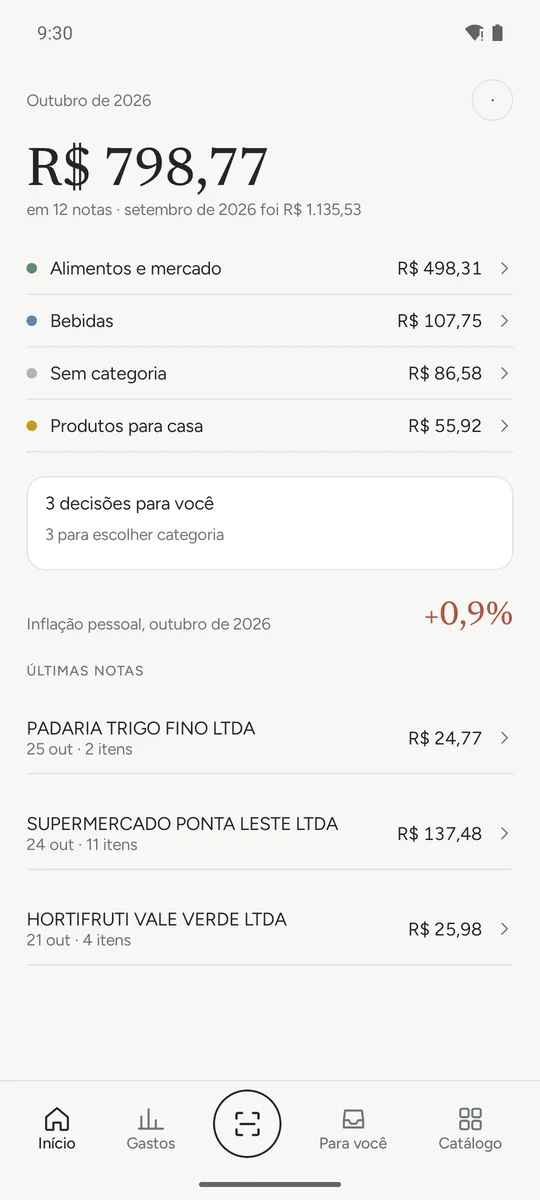
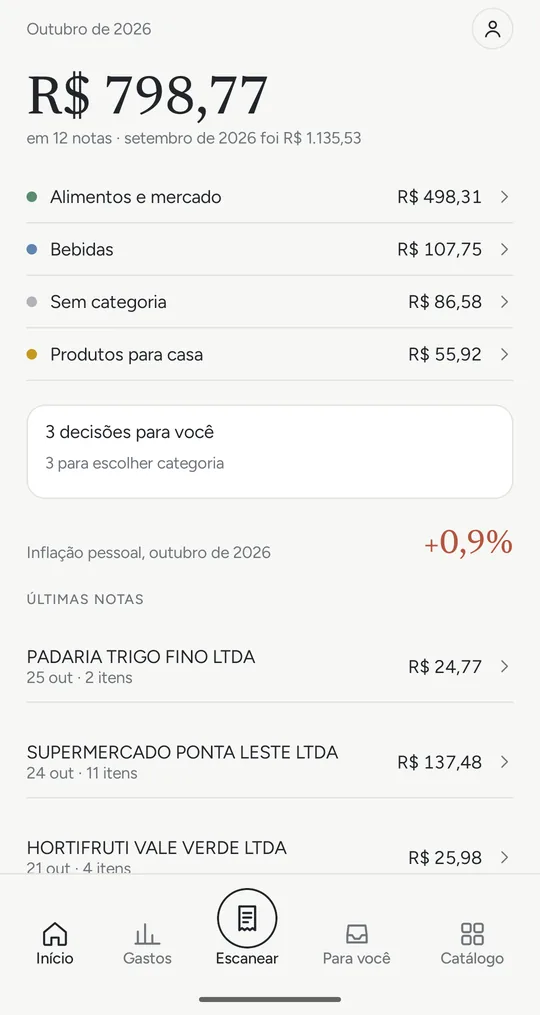
Site: a fuller landing page with the closed test, and the current screenshots (D151)
The landing page gets the Play screenshots (status bar cropped), how it works in three
steps, six features, a closed-test section asking testers to e-mail the contact address,
questions and the privacy points. The app's icon is the favicon. Not deployed.

Claude-Session: https://claude.ai/code/session_01XWeU7n7xUy7T9RcVE3sJBD

diff --git a/web/index.html b/web/index.html
@@ -5,53 +5,158 @@
   <meta name="viewport" content="width=device-width, initial-scale=1">
   <meta http-equiv="Content-Security-Policy" content="default-src 'none'; img-src 'self'; style-src 'self'; base-uri 'none'; form-action 'none'">
   <title>%APP% · notas fiscais, gastos e inflação pessoal</title>
-  <meta name="description" content="Um app Android que lê o QR Code da NFC-e e transforma cada item em histórico: quanto você gasta, em quê, onde, e quanto os preços que você paga subiram.">
+  <meta name="description" content="Um app Android que lê o QR Code da nota fiscal (NFC-e) e transforma cada item em histórico: quanto você gasta, em quê, onde, e quanto os preços que você paga subiram.">
+  <meta name="theme-color" content="#F6F5F1" media="(prefers-color-scheme: light)">
+  <meta name="theme-color" content="#141716" media="(prefers-color-scheme: dark)">
+  <meta property="og:type" content="website">
+  <meta property="og:locale" content="pt_BR">
+  <meta property="og:title" content="%APP%: da nota fiscal ao preço de cada coisa que você compra">
+  <meta property="og:description" content="Escaneie a nota fiscal e acompanhe seus gastos, seus preços e sua inflação. App Android, em teste em Santa Catarina.">
+  <meta property="og:url" content="https://caderneta.roqlab.com.br/">
+  <link rel="icon" href="/assets/icon.svg" type="image/svg+xml">
   <link rel="stylesheet" href="/assets/site.css">
 </head>
 <body>
 <main class="wide">
   <header class="top">
-    <a class="brand" href="/">%APP%</a>
-    <nav><a href="/privacidade/">Privacidade</a><a href="https://roqlab.com.br">roqlab</a></nav>
+    <a class="brand" href="/"><img src="/assets/icon.svg" width="28" height="28" alt="">%APP%</a>
+    <nav><a href="#como-funciona">Como funciona</a><a href="#teste">Teste</a><a href="/privacidade/">Privacidade</a></nav>
   </header>
 
   <section class="hero">
-    <p class="eyebrow">Em desenvolvimento · Santa Catarina</p>
+    <p class="eyebrow">App Android · Santa Catarina</p>
     <h1>Da nota fiscal no papel ao preço de cada coisa que você compra.</h1>
-    <p class="lead">Um app Android que lê o QR Code da NFC-e, busca a nota na SEFAZ e transforma cada item em
-      histórico: quanto você gasta, em quê, onde, e quanto os preços que você paga subiram. Para uma pessoa ou para
-      a casa toda.</p>
-    <span class="badge">Em breve no Google Play</span>
+    <p class="lead">Aponte a câmera para o QR Code da nota fiscal e o %APP% guarda a nota inteira: cada item, o preço,
+      a loja e os descontos. Com o tempo, você vê para onde vai o dinheiro e quanto subiram os preços do que você
+      compra. Para uma pessoa ou para a casa toda.</p>
+    <p class="actions"><a class="button" href="#teste">Quero testar</a><a class="button quiet" href="#como-funciona">Como funciona</a></p>
+    <p class="small">Teste fechado no Google Play começando agora. Ainda não está na loja aberta.</p>
   </section>
 
-  <div class="shots">
-    <figure>
+  <div class="shots" role="list" aria-label="Telas do app">
+    <figure role="listitem">
       <picture><source srcset="/assets/inicio-dark.webp" media="(prefers-color-scheme: dark)">
-        <img src="/assets/inicio-light.webp" width="540" height="1200" alt="Tela inicial com os gastos de outubro por categoria e a inflação pessoal do mês."></picture>
+        <img src="/assets/inicio-light.webp" width="540" height="1015" alt="Tela inicial com os gastos de outubro por categoria, as decisões pendentes, a inflação pessoal do mês e as últimas notas."></picture>
       <figcaption>O mês, por categoria.</figcaption>
     </figure>
-    <figure>
-      <picture><source srcset="/assets/ipci-dark.webp" media="(prefers-color-scheme: dark)">
-        <img src="/assets/ipci-light.webp" width="540" height="1200" alt="Inflação pessoal com o gráfico do índice e a variação de cada mês." loading="lazy"></picture>
+    <figure role="listitem">
+      <img src="/assets/produto-light.webp" width="540" height="1015" alt="Histórico de preço do Café Montanha 500 g, com uma linha por loja e cada compra com data, loja e preço." loading="lazy">
+      <figcaption>O preço de cada produto, loja a loja.</figcaption>
+    </figure>
+    <figure role="listitem">
+      <img src="/assets/ipci-light.webp" width="540" height="1015" alt="Inflação pessoal de outubro, com o gráfico do índice e a variação de cada mês." loading="lazy">
       <figcaption>Sua inflação, não a média.</figcaption>
     </figure>
-    <figure>
-      <picture><source srcset="/assets/produto-dark.webp" media="(prefers-color-scheme: dark)">
-        <img src="/assets/produto-light.webp" width="540" height="1200" alt="Histórico de preço de um café por quilo, com uma linha por loja." loading="lazy"></picture>
-      <figcaption>O preço de cada produto, loja a loja.</figcaption>
+    <figure role="listitem">
+      <img src="/assets/gastos-light.webp" width="540" height="1015" alt="Gastos de outubro com barras de maio a outubro e as categorias do mês com sua parte no total." loading="lazy">
+      <figcaption>Mês a mês, por categoria ou por loja.</figcaption>
+    </figure>
+    <figure role="listitem">
+      <img src="/assets/nota-light.webp" width="540" height="1015" alt="Uma nota fiscal lida pelo app, com cada item, quantidade e preço." loading="lazy">
+      <figcaption>A nota inteira, item a item.</figcaption>
     </figure>
   </div>
   <p class="small">Interface real, dados fictícios.</p>
 
-  <section class="features">
-    <div><span class="index">01</span><h3>A captura se planeja sozinha</h3>
-      <p>Enquanto a câmera passa pela nota, o app lê as linhas impressas e guarda só as fotos que acrescentam algo.</p></div>
-    <div><span class="index">02</span><h3>Funciona sem servidor</h3>
-      <p>A página da SEFAZ é lida no próprio celular, e as fotos ficam nele. Com uma conta, a caderneta sincroniza e
-        pode ser dividida com a família.</p></div>
-    <div><span class="index">03</span><h3>Inflação pessoal honesta</h3>
-      <p>Cada produto é comparado com o próprio preço anterior. Trocar de marca muda o gasto, não a inflação; mês com
-        poucos dados não tem leitura.</p></div>
+  <section class="block" id="como-funciona">
+    <p class="eyebrow">Como funciona</p>
+    <h2 class="title">Três passos, e o resto o app faz.</h2>
+    <ol class="steps">
+      <li><span class="index">01</span><h3>Escaneie a nota</h3>
+        <p>Aponte a câmera para o QR Code e passe pela nota. O app lê as linhas impressas e guarda só as fotos que
+          acrescentam algo.</p></li>
+      <li><span class="index">02</span><h3>Busque na SEFAZ</h3>
+        <p>O app abre a página pública de consulta da nota, a mesma do navegador, e a lê no próprio celular. Se a
+          página pedir uma verificação, é só tocar em Validar.</p></li>
+      <li><span class="index">03</span><h3>Acompanhe</h3>
+        <p>Cada item vira histórico: gastos por categoria, produto e loja, o preço de cada coisa ao longo do tempo
+          e a sua inflação pessoal.</p></li>
+    </ol>
+  </section>
+
+  <p class="eyebrow features-head">O que ele faz</p>
+  <section class="features" aria-label="O que ele faz">
+    <div><h3>Pelo código de barras</h3>
+      <p>No mercado, aponte a câmera para um produto e veja quanto você já pagou por ele e em que loja.</p></div>
+    <div><h3>Inflação pessoal honesta</h3>
+      <p>Cada produto é comparado com o próprio preço anterior, por quilo ou litro quando o tamanho muda. Trocar de
+        marca muda o gasto, não a inflação; mês com poucos dados não tem leitura.</p></div>
+    <div><h3>Descontos de verdade</h3>
+      <p>Os descontos de cada item são lidos da foto da nota, então o preço guardado é o que você pagou.</p></div>
+    <div><h3>Categorias sozinhas</h3>
+      <p>Com uma conta, os itens novos ganham categoria automaticamente. Quando o app não tem certeza, ele pergunta
+        em Para você, e você confirma ou corrige.</p></div>
+    <div><h3>Uma caderneta para a casa</h3>
+      <p>Divida uma caderneta com quem mora com você: cada um escaneia as suas notas e todos veem tudo, com o nome de
+        quem escaneou.</p></div>
+    <div><h3>Funciona sem conta</h3>
+      <p>Sem conta, tudo fica no seu celular. Há uma cópia de segurança em um arquivo, e um exemplo com notas
+        inventadas para conhecer o app antes da primeira nota.</p></div>
+  </section>
+
+  <section class="block test" id="teste">
+    <p class="eyebrow">Teste fechado</p>
+    <h2 class="title">Ajude a abrir o %APP% para todo mundo.</h2>
+    <p>O Google só libera um app novo na loja depois de um teste fechado: pelo menos 12 pessoas com o app instalado
+      durante 14 dias seguidos. Se você mora em Santa Catarina e tem um celular Android, sua ajuda conta muito.</p>
+    <div class="test-grid">
+      <div class="card">
+        <h3>Para participar</h3>
+        <ol>
+          <li>Mande um e-mail para <a href="mailto:%CONTACT%?subject=Quero%20testar%20o%20%APP%">%CONTACT%</a> com o
+            endereço da sua Conta Google (o do Google Play).</li>
+          <li>Você recebe um convite para aceitar e o link para instalar pelo Google Play.</li>
+          <li>Mantenha o app instalado por 14 dias e escaneie as notas que puder.</li>
+        </ol>
+        <p><a class="button" href="mailto:%CONTACT%?subject=Quero%20testar%20o%20%APP%">Quero testar</a></p>
+      </div>
+      <div>
+        <h3>O que você precisa</h3>
+        <ul>
+          <li>Um celular Android.</li>
+          <li>Notas fiscais de consumidor (NFC-e) de Santa Catarina: as com QR Code, dos mercados, padarias e
+            farmácias.</li>
+          <li>Sem notas de SC, dá para ajudar mesmo assim: o exemplo com notas inventadas mostra o app inteiro.</li>
+        </ul>
+        <p class="small">Seu e-mail só é usado para a lista de testadores. Comentários e problemas: Ajustes › Enviar
+          comentário, no próprio app.</p>
+      </div>
+    </div>
+  </section>
+
+  <section class="block faq">
+    <p class="eyebrow">Perguntas</p>
+    <details>
+      <summary>Por que só Santa Catarina?</summary>
+      <p>O app lê a página de consulta da nota de cada estado, e cada portal é diferente. Por enquanto só o de SC é
+        lido. A nota impressa segue um padrão nacional, e ler a nota direto das fotos é o caminho para outros
+        estados, ainda em desenvolvimento.</p>
+    </details>
+    <details>
+      <summary>Preciso criar uma conta?</summary>
+      <p>Não. Sem conta, tudo funciona no celular, menos a categoria automática dos itens novos. A conta serve para
+        guardar as notas online, usar mais de um celular e dividir uma caderneta com outras pessoas.</p>
+    </details>
+    <details>
+      <summary>Por que às vezes uma nota fica esperando?</summary>
+      <p>O portal da SEFAZ limita quantas notas uma mesma rede pode consultar por hora. O app espaça as consultas e
+        avisa antes de passar do limite; a nota fica salva e pode ser buscada depois. Ele também lembra de buscar as
+        que ficaram para trás.</p>
+    </details>
+    <details>
+      <summary>As fotos das notas vão para algum servidor?</summary>
+      <p>Não. As fotos ficam no seu celular. Só se você permitir, o app envia cópias das notas que ele não conseguiu
+        ler, com os dados do cartão, o CPF e o operador apagados, para melhorar a leitura.</p>
+    </details>
+    <details>
+      <summary>O app é da SEFAZ?</summary>
+      <p>Não. O %APP% não é da SEFAZ nem de nenhum órgão do governo. Ele abre a página pública de consulta da nota,
+        a mesma que você abriria pelo navegador.</p>
+    </details>
+    <details>
+      <summary>Quanto custa?</summary>
+      <p>Nada durante o teste. Não há anúncios, e nenhum dado é vendido.</p>
+    </details>
   </section>
 
   <section class="block">
@@ -59,13 +164,14 @@
     <ul>
       <li>Sem conta, tudo fica só no seu celular.</li>
       <li>O CPF e o nome do comprador são removidos das notas antes de serem guardadas.</li>
+      <li>Você pode apagar sua conta e seus dados quando quiser, no app ou nesta página.</li>
       <li>Sem anúncios. Nenhum dado é vendido.</li>
     </ul>
     <p><a href="/privacidade/">Política de privacidade</a> · <a href="/apagar-conta/">Apagar sua conta</a></p>
   </section>
 
   <footer>
-    <span>%APP% é um projeto do <a href="https://roqlab.com.br">roqlab</a>. Só lê notas de Santa Catarina por enquanto.</span>
+    <span>%APP% é um projeto do <a href="https://roqlab.com.br/#caderneta">roqlab</a>. Só lê notas de Santa Catarina por enquanto.</span>
     <a href="mailto:%CONTACT%">%CONTACT%</a>
   </footer>
 </main>

diff --git a/web/assets/site.css b/web/assets/site.css
@@ -39,7 +39,8 @@ button:disabled { opacity: .45; cursor: not-allowed; }
 
 /* Site pages (D105): the landing page and the privacy policy. */
 .top { display: flex; justify-content: space-between; align-items: baseline; gap: 1rem; margin-bottom: 2.5rem; }
-.brand { font-family: Georgia, "Times New Roman", serif; font-size: 1.3rem; color: var(--ink); text-decoration: none; }
+.brand { font-family: Georgia, "Times New Roman", serif; font-size: 1.3rem; color: var(--ink); text-decoration: none; display: inline-flex; align-items: center; gap: .55rem; }
+.brand img { border-radius: 8px; }
 .top nav a { color: var(--muted); text-decoration: none; margin-left: 1rem; font-size: .95rem; }
 .top nav a:hover { color: var(--accent); }
 main.wide { max-width: 64rem; }
@@ -47,7 +48,7 @@ main.wide { max-width: 64rem; }
 .hero h1 { font-size: clamp(2rem, 5vw, 3rem); }
 .lead { font-size: 1.15rem; color: var(--muted); }
 .badge { display: inline-block; margin-top: .6rem; padding: .45rem .9rem; border: 1px solid var(--line); border-radius: 999px; font-size: .9rem; color: var(--muted); }
-.shots { display: grid; grid-template-columns: repeat(3, minmax(0, 1fr)); gap: 1rem; margin: 2.5rem 0; }
+.shots { display: grid; grid-template-columns: repeat(5, minmax(0, 1fr)); gap: 1rem; margin: 2.5rem 0 .5rem; }
 .shots figure { margin: 0; }
 .shots img { width: 100%; height: auto; display: block; border-radius: 22px; border: 1px solid var(--line); background: var(--surface); }
 .shots figcaption { font-size: .85rem; color: var(--muted); margin-top: .5rem; }
@@ -63,8 +64,36 @@ footer a { color: var(--muted); }
 .policy h2 { margin-top: 2rem; }
 .policy h3 { margin-top: 1.4rem; font-size: 1rem; }
 .policy li { margin: .3rem 0; }
-@media (max-width: 720px) {
-  .shots { grid-template-columns: repeat(3, 70%); overflow-x: auto; scroll-snap-type: x mandatory; padding-bottom: .5rem; }
+/* Landing page sections (D151). */
+.actions { display: flex; flex-wrap: wrap; gap: .6rem; margin: 1.4rem 0 .4rem; }
+a.button { display: inline-block; padding: .65rem 1.3rem; border-radius: 999px; border: 1px solid var(--ink); background: var(--ink); color: var(--bg); text-decoration: none; }
+a.button.quiet { background: transparent; color: var(--ink); border-color: var(--line); }
+a.button:hover { opacity: .88; }
+a:focus-visible { outline: 2px solid var(--accent); outline-offset: 2px; border-radius: 4px; }
+h2.title { font-family: Georgia, "Times New Roman", serif; font-weight: 500; font-size: clamp(1.5rem, 3.5vw, 2rem); line-height: 1.2; margin: .3rem 0 1rem; }
+section.block .eyebrow { margin-top: 0; }
+.steps { list-style: none; padding: 0 !important; margin: 1.5rem 0 0; display: grid; grid-template-columns: repeat(3, minmax(0, 1fr)); gap: 1.5rem; }
+.steps h3, .test h3 { font-size: 1rem; margin: .3rem 0 .4rem; }
+.steps p { margin: 0; color: var(--muted); font-size: .95rem; }
+.features { row-gap: 2rem; margin-top: 1rem; }
+.features-head { margin-top: 3rem !important; }
+.test-grid { display: grid; grid-template-columns: minmax(0, 1.1fr) minmax(0, 1fr); gap: 2rem; align-items: start; margin-top: 1rem; }
+.test-grid .card { margin: 0; }
+.test-grid ol, .test-grid ul { padding-left: 1.2rem; }
+.test-grid li { margin: .45rem 0; }
+.faq details { border-bottom: 1px solid var(--line); padding: .85rem 0; max-width: 46rem; }
+.faq summary { cursor: pointer; font-weight: 600; }
+.faq summary:focus-visible { outline: 2px solid var(--accent); outline-offset: 2px; }
+.faq details p { color: var(--muted); margin: .6rem 0 .2rem; }
+html { scroll-behavior: smooth; }
+@media (prefers-reduced-motion: reduce) { html { scroll-behavior: auto; } }
+@media (max-width: 960px) {
+  .shots { grid-template-columns: repeat(5, 42%); overflow-x: auto; scroll-snap-type: x mandatory; padding-bottom: .5rem; }
   .shots figure { scroll-snap-align: start; }
-  .features { grid-template-columns: 1fr; }
+}
+@media (max-width: 720px) {
+  .shots { grid-template-columns: repeat(5, 68%); }
+  .features, .steps, .test-grid { grid-template-columns: 1fr; }
+  .top nav a { margin-left: .75rem; }
+  .top nav a[href="#como-funciona"] { display: none; }
 }

diff --git a/docs/decisions.md b/docs/decisions.md
@@ -3643,3 +3643,29 @@ escaneando"); otherwise it starts over at once. It drops the attempt exactly as 
 session, its photos and its code), and debug dumps note it in `events.txt`. Checked on the emulator with a recorded
 receipt: 69 of 71 rows, 4 photos, QR read → "Recomeçar" → 0 rows, 0 photos, reading again.
 
+
+## D151. The Caderneta on both sites: the name on roqlab, a fuller landing page that recruits testers (2026-11-01)
+
+The user asked to update and improve how the project is presented on roqlab.com.br and caderneta.roqlab.com.br.
+Both still showed the screens from before D141–D146 (the old scan button, the account dot, the "JEV" marks), and the
+portfolio still called the project getNF and said "Publicação em breve" with no link.
+
+- **The name on roqlab is Caderneta.** D105's brief kept getNF while a name was chosen; 0.1 goes to the closed test as
+  Caderneta (the Play listing, the site, `br.com.roqlab.caderneta`), so the portfolio follows. The entry is
+  `#caderneta`; `#getnf` and `#getnf-demo` still work (redirected in `app.js`, an anchor without script). The launcher
+  label in the app is untouched here.
+- **Screenshots from the Play set** (`docs/screenshots/play/`, 2026-10-31), the status bar cropped (it carried the
+  emulator's "3G"). No current dark shots exist except Início, so only Início follows the system's theme; the rest are
+  light on both sites. Retaking the dark ones is left for the next screenshot session.
+- **roqlab:** three phones (Início, a product, the IPCI), the barcode lookup and the shared caderneta in the copy,
+  status "Em desenvolvimento · teste fechado em breve", and "Conhecer o app ↗" to the site in place of "Publicação em
+  breve", with a line that it reads SC only and isn't SEFAZ's.
+- **caderneta.roqlab.com.br:** five screens, "Como funciona" in three steps, six features (all already in the app and
+  in the Play listing, nothing promised beyond it), a **Teste fechado** section, questions and the privacy points.
+  The tester section exists because recruiting 12+ testers is the milestone's critical item: it explains Google's
+  12-for-14-days rule and asks people to e-mail the contact address with their Google account. A form was rejected:
+  it needs a server or a third party, and the site keeps none. The questions answer what testers will ask (why only
+  SC, an account, a receipt waiting, photos, SEFAZ, cost: "nothing during the test", since nothing beyond that is
+  decided).
+- **Not deployed.** The site builds with `tools/build-web.py --contact` (the contact address is still open, item 6
+  of the milestone) and the portfolio deploys from its own repo; both wait for the user's go-ahead.

diff --git a/web/README.md b/web/README.md
@@ -3,7 +3,9 @@
 `caderneta.roqlab.com.br` (D105): a static Cloudflare Worker, like the roqlab portfolio. Plain HTML and CSS, no
 framework, no third-party code, nothing kept in the browser.
 
-- `/` (`index.html`): what the app is, three screenshots of the demo caderneta (light and dark), the privacy points.
+- `/` (`index.html`): what the app is, five screenshots of the demo caderneta, how it works in three steps, what it
+  does, the closed test (how to join, by e-mail to the contact address), questions (`<details>`, no script) and the
+  privacy points (D151). Its claims follow the Play listing (`docs/play-console.md`): change one, check the other.
 - `/privacidade/`: built from `docs/privacy-policy.md` (cmark), which stays the one source; its draft note is dropped
   and its blanks filled in.
 - `/apagar-conta/`: deleting an account without the app, the "delete account URL" Play asks for. Signs in with
@@ -17,7 +19,8 @@ framework, no third-party code, nothing kept in the browser.
   drops it at once, and uses it only to set the new password (`PUT /auth/v1/user`); nothing kept. Needs the project's
   URL and publishable key (`config.js`, written by the build, as for `/apagar-conta/`), and the address in Redirect
   URLs.
-- `assets/`: the shared stylesheet and the screenshots (540 px wide, from `docs/screenshots/`).
+- `assets/`: the shared stylesheet, the app's icon (`docs/brand/icon.svg`, also the favicon) and the screenshots: the
+  Play ones (`docs/screenshots/play/`) without the status bar, 540 px wide. Only Início has a current dark shot.
 - `_headers`: security headers the pages can't set themselves (`frame-ancestors`, HSTS).
 
 ## Build and deploy

diff --git a/docs/status.md b/docs/status.md
@@ -126,7 +126,7 @@ The user:
 - System-1 / LLM: the LLM auditing System-1's sizes (D108, D110); then the LLM's new role (a capable model, run
   rarely, for rules, lexicon and disagreements).
 - Going public beyond the closed test (D105): positioning, the final name, the portfolio entry at roqlab.com.br
-  ([portfolio-brief.md](portfolio-brief.md)), a short manual. Running costs in [costs.md](costs.md). The site is live
+  ([portfolio-brief.md](portfolio-brief.md); the entry was renamed and refreshed in D151), a short manual. Running costs in [costs.md](costs.md). The site is live
   at https://caderneta.roqlab.com.br (landing page, `/privacidade/`, `/apagar-conta/`; `web/README.md` to redeploy).
 - Products: stores that print their own code instead of the GTIN can't be found by barcode
   ([camera-plan.md](camera-plan.md), parked: deterministic first); items without a barcode (scale labels) recognised
@@ -136,6 +136,10 @@ The user:
 
 How the capture behaves, as a state machine: [capture-fsm.md](capture-fsm.md); the idealised redesign that was
 discussed and set aside for four rules: [capture-fsm-ideal.md](capture-fsm-ideal.md) (D149).
+
+Both sites refreshed (D151, 2026-11-01): roqlab's entry is Caderneta with current screens and a link; the site has
+how it works, questions and a closed-test section asking testers to e-mail the contact address. Not deployed yet:
+waits on the contact address and the user's go-ahead.
 
 Done before the milestone: the camera plan (D129–D138: a product's barcode looked up in every caderneta; one camera
 for receipts and products), CI on GitHub and the crash log (D140), Play upload tags (D139), the workflow review of

diff --git a/docs/portfolio-brief.md b/docs/portfolio-brief.md
@@ -1,6 +1,9 @@
 # Portfolio brief: the getNF entry on roqlab.com.br
 
 For an agent working in the portfolio repo (`/home/roque/Documents/Projects/roqlab`). Written 2026-10-28 (D105).
+
+> **2026-11-01 (D151):** done and then some. The entry is now "Caderneta" (`#caderneta`, old `#getnf` links
+> redirect), with the Play screenshots and a link to the site. What follows is the original brief.
 Everything here is safe to publish: the screenshots and numbers come from the made-up demo caderneta, not real
 receipts.
 
